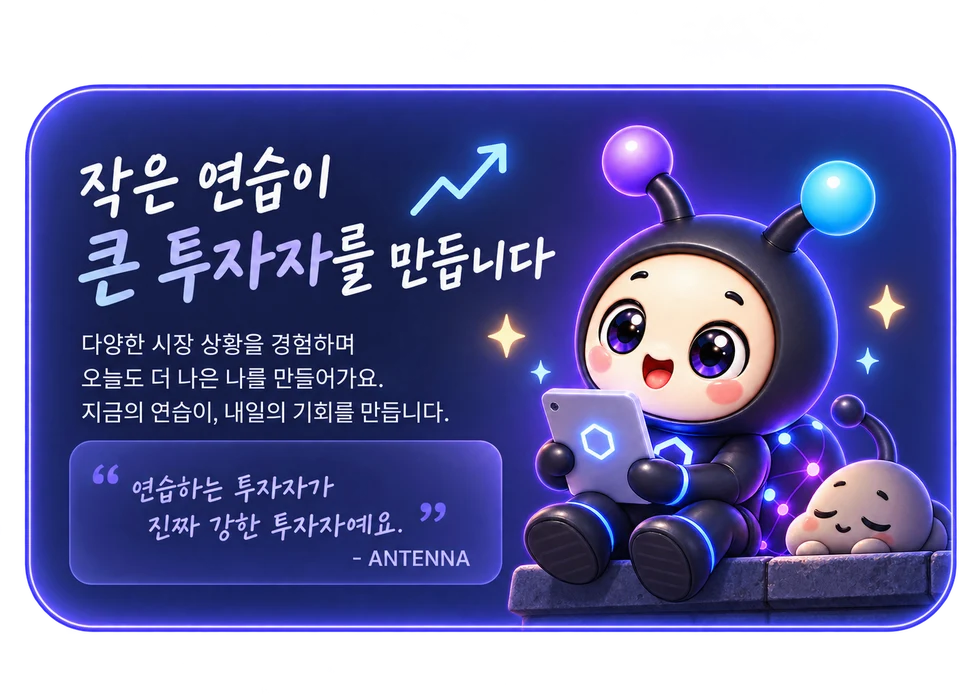
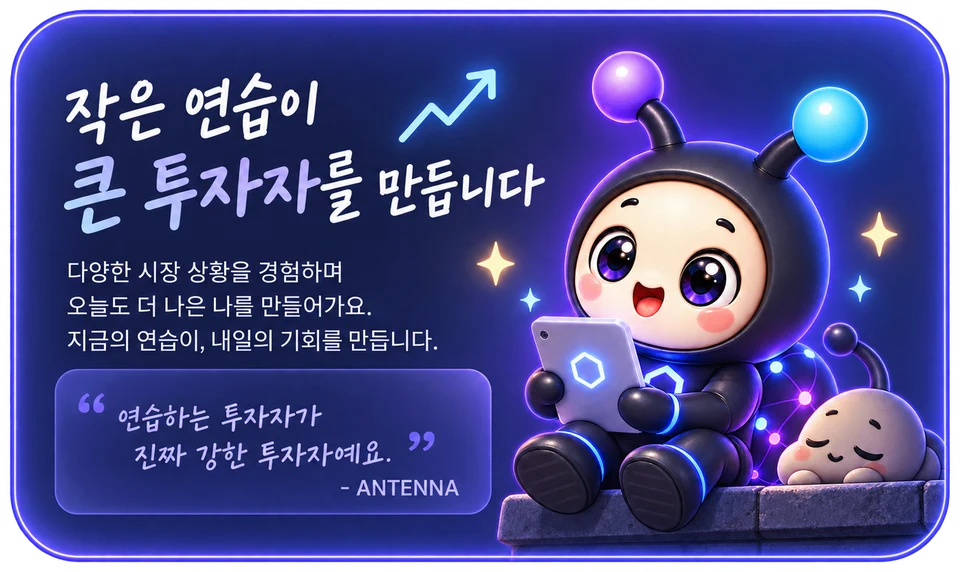
style: FE_[ANT-FE-SEASON-HISTORY]_격려 카드를 위로 붙인다 — 그림 안팎의 빈 여백 두 겹을 걷음
카드 위에 빈 자리가 남아 오른쪽 기둥 전체가 아래로 밀려 보였다. 원인이 두 겹이었다.

1. **그림 안쪽.** 원본 PNG 를 투명 여백(알파 0)만 잘라 구웠는데, 네온 테두리 바깥의
   거의 투명한 번짐까지는 남아 있었다 — 위 85px · 아래 62px(694 기준)이다. 화면에서
   31px · 23px 의 빈 자리였다. 테두리 바깥 14px 만 남기고 다시 잘랐다(694 → 572).
2. **판 바깥쪽.** .rc-cheer 에 7px 여백을 주고 있었다. 그림이 자기 테두리를 들고
   있으므로 판의 여백까지 주면 빈 자리가 두 겹이 된다. 0 으로 둔다.

결과 — 격려 카드가 목록 판과 같은 높이에서 시작하고, 오른쪽 기둥이 목록보다
**짧아졌다**(전에는 20~25px 내려갔다).

| 화면 | 목록 대비 | 한 화면에 |
| 1900×945       | +20 → −31 | 들어옴 |
| 1536×864(125%) | +25 → −16 | 들어옴 |
| 1366×768       | +25 → −16 | 들어옴 |

tsc · 빌드 통과. 390×844 가로 넘침 없음.

diff --git a/frontend/src/styles/screens/sim-history.css b/frontend/src/styles/screens/sim-history.css
@@ -188,7 +188,10 @@ body.sim-record-page .main::before{
 
 /* 격려 카드. 그림 한 장이 판 전체다 — 그림에 이미 테두리와 빛이 있어서 판의
    여백을 줄이고 유리 테두리도 걷는다. 둘 다 있으면 테두리가 두 겹으로 보인다. */
-.rc-cheer{padding:7px;background:none;border-color:transparent;box-shadow:none}
+/* 그림 한 장이 판 전체다. **여백을 두지 않는다** — 그림이 자기 네온 테두리와
+   번짐을 이미 들고 있어서, 판의 여백까지 주면 위아래로 빈 자리가 두 겹이 된다.
+   원본 PNG 에 있던 투명 여백(위 85 · 아래 62px)도 구우면서 잘라 냈다. */
+.rc-cheer{padding:0;background:none;border-color:transparent;box-shadow:none}
 .rc-cheer-card{display:block;width:100%;height:auto;border-radius:14px}
 
 /* ── 성장 여정 ────────────────────────────────────── */
